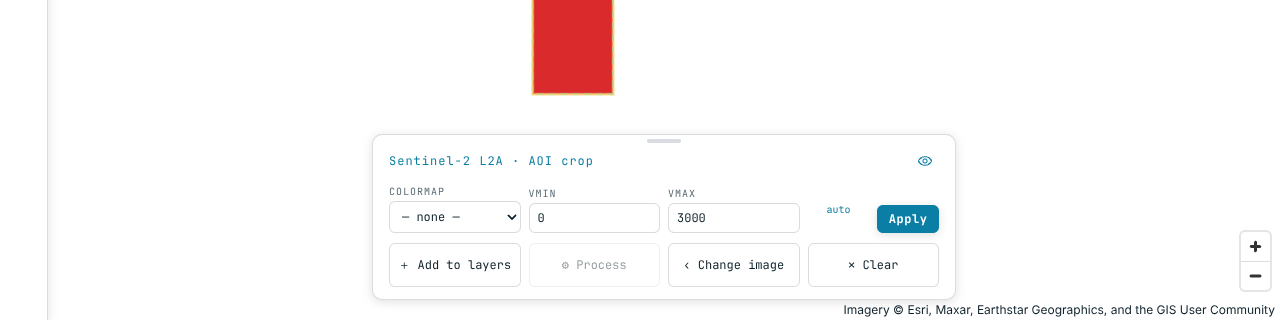
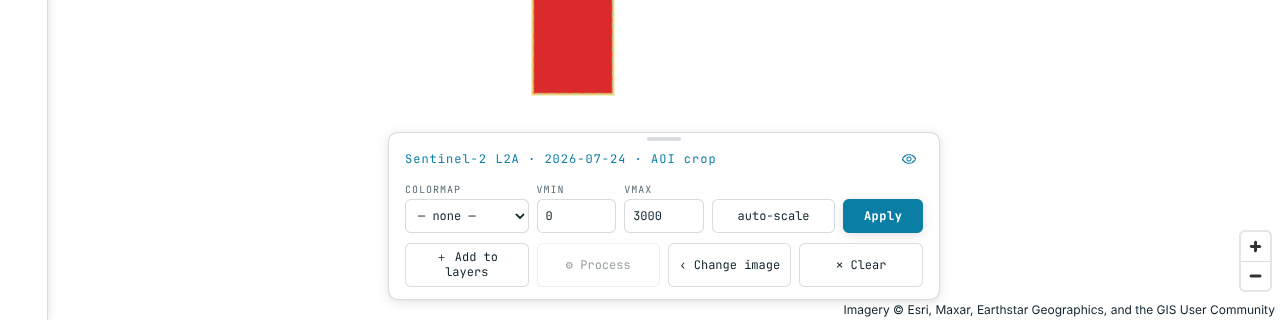
Document the crop, Clear, band and head changes of the #211 review
Plan section 8: the two exceptions to the show/hide rule, the buttons and
tooltips, the head with the date, auto-scale, the click path for the review
(8.6), the cause of the band movement and the open question about the column
of bands (8.9), the decision log line and the updated screenshots.

Claude-Session: https://claude.ai/code/session_01KmZKpxJbA8H3LopFcZLeJn

diff --git a/docs/plans/vp3/ui-02-basemap-projektion.md b/docs/plans/vp3/ui-02-basemap-projektion.md
@@ -321,25 +321,28 @@ Ich konnte nicht belegen, dass Ottos genaue Klickfolge dieselbe war; die fünf P
 
 1. „Hide results“ gilt immer: Auf der Karte erscheinen keine Umrisse, Quicklooks, Zuschnitte oder Hervorhebungen von Suchergebnissen, egal was vorher geschah (Clear, Verlassen der Ansicht, Crop, Layer entfernen, Wechsel von Basemap oder Projektion, „Load more“, neue Suche, Neuladen).
 2. Einzige Ausnahme ist die Auswahl: Eine angehakte Szene erscheint mit ihren Steuerelementen und verschwindet mit dem Haken.
-3. Nur der Umschalter ändert Show/Hide, mit **einer Ausnahme** (Otto, 27.10.2026, nach den Antworten zu 8.7): Ein Klick auf „Search“ (neue Suche, auch nach dem Szenennamen) setzt immer „Show results“. `enterFocus`, `exitFocus`, `clearView`, „Load more“, „Clear search results“, „Clear all“, „Crop to AOI“, Wechsel von Basemap und Projektion und Neuladen ändern es nicht. Die Ausnahme steht an einer Stelle (`store.ts::showResults`, aufgerufen von `runSearch` und `findSceneByName`, nachdem die Suche gültig ist; ohne AOI beginnt keine Suche und der Schalter bleibt).
+3. Nur der Umschalter ändert Show/Hide, mit **zwei Ausnahmen** (Otto, 27.10.2026): Ein Klick auf „Search“ (neue Suche, auch nach dem Szenennamen) setzt immer „Show results“, und „Crop to AOI“ bzw. „Crop & merge to AOI“ setzt „Hide results“. Alle übrigen Vorgänge ändern es nicht: „View whole scene“, „Clear“ und „Change image“ in der Ansicht, „Load more“, „Clear search results“, „Clear all“, Wechsel von Basemap und Projektion, Neuladen. Beide Ausnahmen stehen an einer Stelle im Store: `setResultsOnMap` (aufgerufen von `runSearch` und `findSceneByName`, nachdem die Suche gültig ist; ohne AOI beginnt keine Suche und der Schalter bleibt) und der Zweig „Zuschnitt“ von `enterFocus`.
 4. **Die Funktion:** `resultsOnMapOf(state)` in `frontend/src/mapResults.ts`. Sie liefert aus Schalter, Auswahl und Liste `quicklooks` (Stöbern), `overlay` (über einer Ansicht), `cropsOf` (welche Zuschnitte der Suche), `highlight` (Umrisse der angehakten Szenen) und `clickable` (was ein Klick auf die Karte treffen darf). `MapView.tsx` zeichnet nur noch daraus, auch beim Aufbau nach `style.load`; die Funktionen `visibleGroupIndex` und `resultsOverlayOf` und die drei einzelnen Formeln sind weg.
 
 **Folge von Regel 3 (Frage 1, Antwort Otto):** Öffnet man eine Ansicht bei „Show results“, bleiben die Ergebnisse an; die Ansicht liegt dann **über** ihren Quicklooks, die Umrisse der Ergebnisse bleiben obenauf (8.8).
 
-### 8.3 „✕ Clear“ und „Change image“
+### 8.3 „Crop to AOI“, „✕ Clear“ und „Change image“ (Stand nach dem Review vom 27.10.2026)
 
-- **„✕ Clear“** (Tooltip „Remove this view and deselect“) nimmt die Ansicht (Zuschnitt bzw. ganze Szene) von der Karte und hebt die Auswahl auf (`clearView`). Angeheftete Layer, die Ergebnisliste und „Show/Hide“ bleiben.
-- **„‹ Change image“** (Tooltip „Choose a different image“) verlässt die Ansicht und **behält die Auswahl** (`exitFocus`); die angehakten Szenen bleiben also nach Regel 2 auf der Karte, auch bei „hidden“.
+- **„Crop to AOI“** setzt „Hide results“ und **hebt die Auswahl der zugeschnittenen Szenen auf** (`enterFocus`), damit ihr Quicklook nicht unter oder über dem Zuschnitt liegt. Die Ansicht bleibt offen und hängt danach nicht mehr an der Auswahl (`addCurrentToLayers` ohne Auswahl nimmt alle Szenen der Ansicht). Hakt man die Szene wieder an, erscheint ihr Quicklook wie bei jeder anderen Szene (Regel 2), die Ansicht bleibt unberührt; wird bei offener Ansicht wieder „Show results“ gewählt, liegt die Ansicht über den Quicklooks (Antwort 1 zu 8.7, gilt weiter). „View whole scene“ lässt Auswahl und Schalter, wie sie waren.
+- **„✕ Clear“** (Tooltip „Remove this view from the map“) nimmt die Ansicht von der Karte (`exitFocus`), sonst nichts: Auswahl, angeheftete Layer, Ergebnisliste, offenes Panel und Show/Hide bleiben.
+- **„‹ Change image“** (Tooltip „Remove this view and choose another scene from the results“) nimmt die Ansicht von der Karte und öffnet das Ergebnis-Panel (`changeImage`; nur wenn es Ergebnisse gibt). Show/Hide und Auswahl bleiben.
+- **Anmerkung:** Seit der Aufhebung der Auswahl nach einem Zuschnitt unterscheiden sich die beiden Knöpfe nur noch darin, dass „Change image“ das Ergebnis-Panel öffnet. Ich habe „Change image“ nicht entfernt (Ottos Vorgabe), sage es aber hier: Wer mit dem Panel schon offen ist, sieht keinen Unterschied. Ob einer der beiden entfallen soll, entscheidet Otto.
 
 ### 8.4 Gestaltung der Ansicht
 
-- Kopf in einer Zeile: „Sentinel-2 L2A · AOI crop“ bzw. „· whole scene“; bei mehreren Szenen „· AOI crop · 3 scenes merged“ bzw. „· 3 scenes merged“. Kein „Full-resolution view“, kein „1 image“. Zu langer Text wird mit „…“ gekürzt, der volle Text steht im Tooltip („… · cropped to the AOI · 3 scenes merged“).
+- Kopf in einer Zeile: „Sentinel-2 L2A · 2025-07-29 · AOI crop“ bzw. „· whole scene“; bei mehreren Szenen „· AOI crop · 3 scenes merged“ bzw. „· 3 scenes merged“. Kein „Full-resolution view“, kein „1 image“. Das **Aufnahmedatum** (UTC, `YYYY-MM-DD`, aus `properties.datetime` der Szenen der Ansicht, `viewKind.ts::viewDates`) steht nach dem Datensatz: ein Datum, wenn alle Szenen denselben Tag haben, sonst die Spanne „2025-07-29 – 2025-08-03“. Produkte ohne Zeitpunkt (z. B. das Höhenmodell mit Zeitraum) haben kein Datum im Kopf, kein leeres Trennzeichen. Zu langer Text wird mit „…“ gekürzt, der volle Text steht im Tooltip („… · 2025-07-29 – 2025-08-03 · cropped to the AOI · 3 scenes merged“).
 - „Hide image“ ist ein Augen-Symbol rechts im Kopf; der Tooltip nennt, was ein Klick tut („Hide image“ / „Show image“).
-- Beide Knopfzeilen liegen in einem gemeinsamen Raster aus acht Spalten, dessen Breite die Breite der Ansicht ist (`width: min(…, 100vw – Dock – 24px)`). Zeile 1: Colormap, vmin, vmax je zwei Spalten, „auto“ und „Apply“ je eine. Zeile 2: „＋ Add to layers“, „⚙ Process“, „‹ Change image“, „✕ Clear“, je zwei Spalten. Unter 600 px hat das Raster vier Spalten und die Zeilen brechen um.
+- Beide Knopfzeilen liegen in einem gemeinsamen Raster aus zwölf Spalten, dessen Breite die Breite der Ansicht ist (`width: min(…, 100vw – Dock – 24px)`). Zeile 1: Colormap drei Spalten, vmin und vmax je zwei, „auto-scale“ drei, „Apply“ zwei. Zeile 2: „＋ Add to layers“, „⚙ Process“, „‹ Change image“, „✕ Clear“, je drei Spalten. Unter 600 px hat das Raster vier Spalten und die Zeilen brechen um.
+- **„auto-scale“** (vorher „auto“) und „Apply“ haben dieselbe Zeilenhöhe wie die Felder (`--row-height: 34px`), der Text steht vertikal zentriert, beide stehen auf der Linie der Felder (gemessen im Browser: Oberkante 549, Höhe 34, Mitte des Textes 566 bei beiden Knöpfen und bei den drei Feldern).
 - Der Kopf läuft nie über die Zeilen hinaus (`min-width: 0`, `text-overflow: ellipsis`); Wörter, die nicht passen, brechen (`overflow-wrap: anywhere`). Geprüft: bei 420 px Fensterbreite liegt der Kopf innerhalb der Ansicht, die Ansicht innerhalb des Fensters.
 - Die Klasse `scene-view` trägt die neuen Regeln; `ResultControls` (Ansicht eines Ergebnis-Layers) teilt `viewer-controls` weiter und ist unverändert.
 
-Bilder (Chromium, Software-Rendering, synthetische Szene; vorher = `main`, nachher = dieser Stand):
+Bilder (Chromium, Software-Rendering, synthetische Szene; vorher = `main`, nachher = dieser Stand, mit Datum im Kopf und „auto-scale“; die synthetischen Szenen sind vom 24.07.2026):
 
 | | breit (1280 px) | schmal (420 px) |
 |---|---|---|
@@ -351,23 +354,23 @@ Bilder (Chromium, Software-Rendering, synthetische Szene; vorher = `main`, nachh
 
 ### 8.5 Belege
 
-- **Testmatrix** (`resultsOnMap.test.tsx`, 47 Tests): Ergebnisse an/aus × Szene angehakt ja/nein × zehn Vorgänge („Clear“ der Ansicht, „Change image“, „Crop to AOI“, „View whole scene“, „Clear“ der AOI im Control-Menü, Layer entfernt, Wechsel der Basemap, Wechsel der Projektion, „Load more“, neue Suche). Nach jedem Vorgang steht der Schalter, wie er war, und bei „hidden“ ist nur Angehaktes auf der Karte. Dazu Ottos Klickweg und „Clear“ (Ansicht und Auswahl weg, angeheftete Layer und Ergebnisliste bleiben, Schalter bleibt). Neuladen: Nach einem Neuladen gibt es keine Ergebnisse, also nichts auf der Karte; ob der Schalter dann gemerkt wird, ist Frage 2.
-- **Gegenprobe:** Gegen den Code von vor den Änderungen (nur mit der neuen Funktion und dem Test) scheitern 23 der 47 Tests.
-- **Weitere Tests:** `mapResults.test.ts` (die Funktion, 14), `ViewerControls.test.tsx` (Kopf, Auge, Knöpfe, Vertrag des CSS, 17); die Tests von UI-01g zu „An nach der Suche“ und „an nach Verlassen“ sind auf die neue Regel umgestellt (`ResultsDock.test.tsx`, `store.mosaic.test.ts`).
-- **Echter Browser** (Chromium, Wegwerf-Skript): Klickweg mit angehakter Szene bei „hidden“: nur die angehakte Szene auf der Karte, „Crop to AOI“ lässt den Schalter, „Change image“ ebenso, „Clear“ in der Ansicht nimmt Ansicht und Auswahl weg, der Schalter steht weiter auf „Show results“ und die Liste hat noch ihre Ergebnisse. Bilder oben.
-- **Frontend-Suite mit #212:** In einem Wegwerf-Worktree mit #212 gemergt: 2530 Tests grün. Ohne #212 scheitern die 21 Tests aus `ResultControls.test.tsx` (Uhr in den Fixtures).
+- **Testmatrix** (`resultsOnMap.test.tsx`, 60 Tests): Ergebnisse an/aus × Szene angehakt ja/nein × elf Vorgänge („Clear“ der Ansicht, „Change image“, „Crop to AOI“, „View whole scene“, „Clear“ der AOI im Control-Menü in einer ganzen Szene und in einem Zuschnitt, Layer entfernt, Wechsel der Basemap, Wechsel der Projektion, „Load more“, neue Suche). Nach jedem Vorgang steht der Schalter, wie er war, **außer** bei den beiden Ausnahmen (Zuschnitt → „hidden“ und Auswahl weg; neue Suche → „shown“); bei „hidden“ ist nur Angehaktes auf der Karte. Dazu Ottos Klickweg (Show → Szene anhaken → Crop → Hide, Szene abgehakt, wieder anhaken zeigt ihr Quicklook, „Show results“ legt die Ergebnisse unter die Ansicht), „Clear“ (nur die Ansicht weg) und „Change image“ (Ansicht weg, Panel offen, Schalter und Auswahl bleiben). Neuladen: Nach einem Neuladen gibt es keine Ergebnisse, also nichts auf der Karte; ob der Schalter dann gemerkt wird, ist Frage 2.
+- **Gegenprobe:** Mit dem `store.ts` von vor diesem Review (Zuschnitt lässt Schalter und Auswahl, `clearView`) scheitern 19 Tests in `resultsOnMap.test.tsx` und `store.mosaic.test.ts`. Mit dem alten `Draggable` und `App` scheitert der Test der Bänder; er scheitert dort schon an `data-band`, belegt die Ursache also nicht selbst — die habe ich im Browser gegen den alten Code gemessen (8.9).
+- **Weitere Tests:** `mapResults.test.ts` (die Funktion, 15), `ViewerControls.test.tsx` (Kopf mit Datum, Auge, Knöpfe und Tooltips, „auto-scale“, Vertrag des CSS, 26), `grouping.test.ts` (`itemsOverView`), Bänder und `viewDates`; die Tests von UI-01g zu „An nach der Suche“ und „an nach Verlassen“ sind auf die neue Regel umgestellt (`ResultsDock.test.tsx`, `store.mosaic.test.ts`).
+- **Echter Browser** (Chromium, Wegwerf-Skript): Szene anhaken, „Crop to AOI“: Schalter „Show results“ (also hidden), Auswahl leer, keine Quicklooks auf der Karte, die Ansicht offen, Kopf „Sentinel-2 L2A · 2026-07-25 · AOI crop“. Bänder: siehe 8.9. Bilder oben.
+- **Frontend-Suite** (mit #212 im Zweig): 81 Dateien, 2601 Tests grün; `oxlint`, `tsc -b`, `ruff check backend` und `lint-imports` ohne Befund.
 
 ### 8.6 Prüfanleitung für Otto (Browser, mit deinem Klickweg)
 
-1. Suche mit einer AOI und Treffern; im Panel „Results“ steht „Hide results“. Eine Szene anhaken: Die Auswahlleiste unten erscheint.
-2. „Crop to AOI“ drücken. Der Schalter im Panel „Results“ steht noch so wie vorher (die Ansicht ändert ihn nicht). Bei „Hide results“ siehst du den Zuschnitt und, wenn angehakt, die Szene. Bei „Show results“ liegt der Zuschnitt **über** den Quicklooks der Ergebnisse, deren Umrisse bleiben obenauf.
-3. Der Kopf der Ansicht ist eine Zeile („… · AOI crop“), rechts das Auge. Auf das Auge drücken: Das Bild verschwindet, der Tooltip heißt nun „Show image“. Beide Knopfzeilen sind gleich breit; unten „Add to layers“, „Process“, „Change image“, „Clear“.
-4. Im Control-Menü bei „Area of interest“ das **„✕ Clear“** der AOI drücken (das ist die Stelle aus deinem Bericht), dann eine andere AOI zeichnen: Die Ansicht bleibt wie sie war, geschnitten auf die AOI, mit der sie geöffnet wurde. Die ganze Szene gibt es mit „View whole scene“ in der Auswahlleiste.
-5. In der Ansicht **„✕ Clear“** drücken: Die Ansicht ist weg, die Auswahl ist aufgehoben, die Karte zeigt (bei „hidden“) nichts von den Ergebnissen. Angeheftete Layer im Layer-Manager und die Liste im Panel „Results“ bleiben, der Schalter steht unverändert.
-6. Wieder anhaken, „Crop to AOI“, **„‹ Change image“**: Die Ansicht ist weg, die Szene bleibt angehakt und auf der Karte; „Hide results“ ist weiter gedrückt.
-7. Dieselben Schritte bei „Show results“ und bei einem Wechsel der Basemap (Menü „Basemap“) und der Projektion zwischendurch: Der Schalter ändert sich nie von selbst. Dann „Hide results“ drücken und im Control-Menü **„Search“** drücken: Die Ergebnisse sind wieder an („Hide results“ steht im Panel). Das ist die einzige Ausnahme.
-8. „Hide results“ drücken und die Seite neu laden (F5). Nach dem Neuladen gibt es keine Ergebnisse, also nichts auf der Karte. Die Stellung ist in den Entwicklerwerkzeugen unter Application, Local Storage, `earthx.results` zu sehen (`hide`). Im Panel ist sie erst nach einer Suche zu sehen, und die Suche setzt immer „Show results“ (die Ausnahme von Regel 3); gemerkt wird die Stellung also für Neuladen, Basemap-Wechsel und alles andere, was keine Suche ist.
-9. Fenster schmal ziehen (unter 600 px): Die Zeilen brechen um, nichts läuft über den Rand; ein langer Titel endet mit „…“, der Tooltip zeigt den ganzen Text.
+1. Suche mit einer AOI und Treffern; im Panel „Results“ steht „Hide results“ (also an). Eine Szene anhaken: Die Auswahlleiste unten erscheint.
+2. **„Crop to AOI“** drücken. Die Ergebnisse sind jetzt versteckt (der Schalter heißt „Show results“), die Szene ist **abgehakt**, die Auswahlleiste ist weg, auf der Karte liegt nur der Zuschnitt, kein Quicklook darunter oder darüber. Die Ansicht bleibt offen.
+3. Der Kopf der Ansicht ist eine Zeile mit dem Aufnahmedatum („Sentinel-2 L2A · 2025-07-29 · AOI crop“), rechts das Auge. Mehrere Szenen vom selben Tag: ein Datum; verschiedene Tage: „2025-07-29 – 2025-08-03“. Bei schmalem Fenster endet der Kopf mit „…“, der Tooltip zeigt den vollen Text. „auto-scale“ und „Apply“ stehen auf derselben Höhe wie die Felder, der Text in der Mitte.
+4. **Bänder:** Die Ansicht am Griff oben verschieben. Eine Szene wieder anhaken (ihr Quicklook erscheint, die Ansicht bleibt unberührt; die Auswahlleiste kommt zurück) und diese Leiste verschieben. Dann in der Ansicht **„‹ Change image“**: Die Ansicht geht von der Karte, das Ergebnis-Panel öffnet sich, „Show/Hide“ bleibt, wie es war. Die Auswahlleiste behält ihre eigene Verschiebung, die Zeitleiste, die an die Stelle der Ansicht tritt, steht an ihrem eigenen Platz (nicht dort, wo die Ansicht stand). Die Auswahlleiste liegt allerdings tiefer, weil das Band unter ihr niedriger geworden ist (8.9).
+5. Wieder „Crop to AOI“, dann in der Ansicht **„✕ Clear“**: Nur die Ansicht ist weg. Auswahl, angeheftete Layer im Layer-Manager, Liste im Panel „Results“, offenes Panel und der Schalter stehen unverändert.
+6. Im Control-Menü bei „Area of interest“ das **„✕ Clear“** der AOI drücken (die Stelle aus deinem ersten Bericht), dann eine andere AOI zeichnen: Die Ansicht bleibt wie sie war, geschnitten auf die AOI, mit der sie geöffnet wurde. Die ganze Szene gibt es mit „View whole scene“ in der Auswahlleiste; sie lässt Auswahl und Schalter, wie sie waren.
+7. Bei „Show results“ eine Ansicht öffnen (ganze Szene): Die Quicklooks der Ergebnisse bleiben, die Ansicht liegt darüber, die Umrisse obenauf. Dann einen Zuschnitt: die Ergebnisse gehen auf „hidden“. Auf „Show results“ drücken: Die Ergebnisse liegen wieder unter der Ansicht. Basemap und Projektion zwischendurch wechseln: Der Schalter ändert sich nie von selbst. Dann „Hide results“ drücken und im Control-Menü **„Search“** drücken: Die Ergebnisse sind wieder an. Das sind die zwei Ausnahmen (Crop, Search).
+8. „Hide results“ drücken und die Seite neu laden (F5). Nach dem Neuladen gibt es keine Ergebnisse, also nichts auf der Karte. Die Stellung ist in den Entwicklerwerkzeugen unter Application, Local Storage, `earthx.results` zu sehen (`hide`). Im Panel ist sie erst nach einer Suche zu sehen, und die Suche setzt immer „Show results“.
+9. Fenster schmal ziehen (unter 600 px): Die Zeilen brechen um, nichts läuft über den Rand; ein langer Titel endet mit „…“.
 
 ### 8.7 Fragen an Otto (beantwortet am 27.10.2026, Umsetzung in 8.8)
 
@@ -380,7 +383,15 @@ Bilder (Chromium, Software-Rendering, synthetische Szene; vorher = `main`, nachh
 1. **Die Ansicht über den Quicklooks.** Ein versteckter Marker `results-top` liegt direkt über `layers-top` (dem Ende des Stapels der angehefteten Layer), unter allem, was die Ansicht anlegt. Die Quicklooks der Ergebnisse über einer Ansicht (`res-…`) gehen unter diesen Marker (`mapLayers.ts::underTheView`), die Ansicht (unter der AOI-Linie angelegt) liegt also darüber, ganz gleich, welche von beiden zuerst gezeichnet wird und auch nach `style.load`. Die Umrisse der angehakten Szenen (`mosaicsel-line`) liegen über beiden. Die Zuschnitte der Suche und die angehefteten Layer liegen wie bisher darunter.
 2. **Show/Hide im Browser.** `preferences.ts::loadResultsOnMap` und `saveResultsOnMap`, Schlüssel `earthx.results`, Werte `show` und `hide`; alles andere, ein nicht lesbarer Speicher und ein fehlender Wert ergeben „Show“. Lesen und Schreiben mit `try/catch` wie bei den anderen Einstellungen. Der Speicher wird beim Start des Stores gelesen und vom Umschalter und von „Search“ geschrieben.
 3. **„Search“ zeigt die Ergebnisse** (geänderte Regel 3, siehe 8.2).
-4. **Die Ansicht behält ihre AOI.** Der Store hat `viewAoi`: Beim Öffnen einer zugeschnittenen Ansicht die AOI dieses Augenblicks, beim Klick auf einen zugeschnittenen Layer die des Layers, sonst `null`; `exitFocus`, `clearView` und jede andere Ansicht setzen sie zurück. `MapView` schneidet die Kacheln, die Umrisse je Gruppe und die Zuordnung zu einem angehefteten Layer auf `viewAoi`, nicht auf `aoi`. „Add to layers“ heftet den Zuschnitt der AOI der Ansicht an; „⚙ Process“ legt `aoi` auf die AOI der Ansicht, wie es bei einem Layer schon ist (`activateViewContext`), und nimmt „AOI only“. Die AOI im Control-Menü (zeichnen, ändern, löschen, „Last AOI“) berührt die offene Ansicht nicht mehr. Ein Klick auf einen zugeschnittenen Layer setzt weiter auch `aoi` (UI-01g, unverändert); die Ansicht braucht es nicht mehr.
+4. **Die Ansicht behält ihre AOI.** Der Store hat `viewAoi`: Beim Öffnen einer zugeschnittenen Ansicht die AOI dieses Augenblicks, beim Klick auf einen zugeschnittenen Layer die des Layers, sonst `null`; `exitFocus`, `changeImage` und jede andere Ansicht setzen sie zurück. `MapView` schneidet die Kacheln, die Umrisse je Gruppe und die Zuordnung zu einem angehefteten Layer auf `viewAoi`, nicht auf `aoi`. „Add to layers“ heftet den Zuschnitt der AOI der Ansicht an; „⚙ Process“ legt `aoi` auf die AOI der Ansicht, wie es bei einem Layer schon ist (`activateViewContext`), und nimmt „AOI only“. Die AOI im Control-Menü (zeichnen, ändern, löschen, „Last AOI“) berührt die offene Ansicht nicht mehr. Ein Klick auf einen zugeschnittenen Layer setzt weiter auch `aoi` (UI-01g, unverändert); die Ansicht braucht es nicht mehr.
 
 **Belege:** `mapLayers.resultsUnderView.test.ts` (7: Reihenfolge in beiden Zeichen-Reihenfolgen, mehrfach, nach einem neuen Stil; drei davon scheitern ohne den Marker), `store.resultsKept.test.ts` und die neuen Fälle in `preferences.test.ts` (Vorgabe, Rundreise, Fremdwerte, gesperrter Speicher, Neustart des Stores), `resultsOnMap.test.tsx` (die Matrix mit dem Fall „neue Suche“ als Ausnahme, „Search“ in der Oberfläche, Szenenname, Suche ohne AOI, „Load more“ und Clear ändern nichts), `store.viewAoi.test.ts` (16: AOI beim Öffnen, Löschen, Zeichnen, „Last AOI“, Anheften, Layer, „Process“). Im echten Browser: Ebenen-Reihenfolge `layers-top`, `res-…`, `results-top`, `m-…`, `aoi-fill`, `mosaicsel-line`; die Clip-Kennung der Kacheln der Ansicht bleibt nach Löschen und Neuzeichnen der AOI gleich; „Hide results“ steht nach dem Neuladen im Speicher (`hide`).
 
+### 8.9 Review nach dem Browsertest (Otto, 27.10.2026): Zuschnitt, Bänder, Kopf, „auto-scale“
+
+1. **Zuschnitt** hebt die Auswahl auf und setzt „Hide results“ (zweite Ausnahme von Regel 3, siehe 8.2 und 8.3). `itemsOverView` legt bei „hidden“ jetzt alle angehakten Szenen über die Ansicht, auch die, aus denen die Ansicht besteht (vorher: nur die nicht in der Ansicht), damit eine wieder angehakte Szene ihren Quicklook zeigt wie jede andere; die Ansicht liegt darüber (`results-top`).
+2. **„Clear“, „Change image“**: siehe 8.3; `clearView` gibt es nicht mehr, `exitFocus` ist „Clear“, `changeImage` ist „Change image“.
+3. **Bänder.** **Ursache:** Die Verschiebung eines Bandes stand als `useState` in der Komponente `Draggable`. `App` zeichnet die Bänder in drei Zweigen (Ansicht, Ergebnis-Ansicht, Stöbern), jeweils als Fragment ohne `key`; React ordnet die Kinder nach Stelle zu. Beim Wechsel von der Ansicht zum Stöbern („Change image“) wird die `Draggable` an zweiter Stelle weiterverwendet, mit dem Zustand der Ansicht: die Zeitleiste übernahm die Verschiebung der Ansicht. Umgekehrt ging die Verschiebung eines Bandes, das wegfiel (die Auswahlleiste ohne Haken), verloren. **Gemessen im Browser gegen den alten Code:** Ansicht um (120, −82) verschoben, „Change image“: die Zeitleiste steht bei `translate(120px, -82px)`. **Behebung:** Jedes Band hat seine Kennung (`selection`, `timeline`, `view`, `result`) und seine Verschiebung im kleinen Store `bandPositions.ts`; `Draggable` bekommt `id`, alle Bänder in `App` haben `key`. Gemessen im Browser mit dem neuen Code: Auswahlleiste um (−80, −30) und Ansicht um (100, 20) verschoben, „Change image“: die Auswahlleiste behält `translate(-80px, -30px)`, die Zeitleiste hat keine Verschiebung. Test: `resultsOnMap.test.tsx`, „the bands keep their own places“.
+   **Was bleibt (Frage an Otto):** Die Bänder stehen in einer Spalte, die vom unteren Rand nach oben wächst. Die Auswahlleiste sitzt über dem Band darunter; ist die Ansicht (168 px hoch) weg und die Zeitleiste (61 px) da, rutscht die Auswahlleiste um 107 px nach unten, ohne dass ihre Verschiebung sich geändert hat. Das ist die Reihenfolge der Spalte, kein Zustand. Ich habe es nicht verändert, weil jede andere Lösung (feste Plätze für jedes Band) die Bänder übereinanderlegen oder Lücken lassen würde. (1) So lassen (**Empfehlung**); (2) Auswahlleiste und Hauptband bekommen feste, getrennte Plätze (Lücke bei niedrigem Hauptband).
+4. **Kopf mit Datum** und **„auto-scale“**: siehe 8.4.
+5. **Zum Schluss:** `ViewBar` (die Auswahlleiste) bleibt in der Ansicht nur sichtbar, wenn es angehakte Szenen gibt, die nicht zur Ansicht gehören (`tickedBesideView`, unverändert); nach einem Zuschnitt ist sie also weg, bis eine Szene wieder angehakt wird.

diff --git a/docs/ENTSCHEIDUNGSLOG.md b/docs/ENTSCHEIDUNGSLOG.md
@@ -690,4 +690,4 @@ Bei Widerspruch geht `ENTSCHEIDUNGEN_2026-09-18.md` allen anderen Dokumenten vor
 | 2026-10-27 | **CI auf `main` rot: 21 Tests in `ResultControls.test.tsx` (Ursache gefunden, nur Test geändert).** „Show on map“ ist nicht kaputt und UI-01g (#209) ist nicht schuld: Die Fixture `jobEntries.ts` setzt `NOW` fest auf 20.10.2026 12:00 UTC, der Job läuft 7 Tage später ab, also am 27.10.2026 12:00 UTC. `showResultOnMap` prüft den Ablauf gegen die echte Uhr (`isResultExpired(job.expires, Date.now())`) und legt danach bewusst keinen Layer an; die Tests gingen aber von einem lebenden Job aus. Im echten Browser (Playwright, Backend gemockt, synthetische Daten) legt „Show on map“ bei einem Job mit Ablauf in 3 Tagen den Ergebnis-Layer an; ein abgelaufener Job steht nicht unter „Active“ und hat keinen Knopf. Behoben im Test: Die Uhr wird wie in `JobDetails.test.tsx` auf `NOW` gesetzt (`vi.useFakeTimers({ toFake: ['Date'] })`); Produktcode und Entkopplung aus UI-01g unverändert | fest (Stufe A, Fehlerbehebung) | frontend/src/components/ResultControls.test.tsx; frontend/src/fixtures/jobEntries.ts |
 | 2026-10-27 | **Zeitbomben in den Frontend-Tests (Otto, 27.10.2026, zu #212).** Alle Tests, die Jobs der Fixture `jobEntries.ts` (festes `NOW`) oder feste Datumswerte gegen die echte Uhr laufen ließen, setzen die Uhr jetzt fest (`vi.useFakeTimers({ toFake: ['Date'], now: NOW })`): `AppRail`, `ResultsDock`, `DownloadDialog` zusätzlich zu `ResultControls`. Gegenprobe: Die Suite läuft grün bei um −7, +1, +7, +30, +90, +365 und +3650 Tage verschobener Systemzeit. Der Wächtertest `src/testClock.test.ts` schlägt an, wenn eine Testdatei die Fixture einbindet, ohne die Uhr festzusetzen (Ausnahme: `jobView.test.ts`, reine Funktionen mit `NOW` als Argument) | fest (Stufe A) | frontend/src/testClock.test.ts; frontend/src/fixtures/jobEntries.ts |
 | 2026-10-27 | **Antworten Otto zu §8.7 (zu #211).** (1) Die Ansicht der Auswahl (Zuschnitt bzw. ganze Szene) liegt über den Quicklooks der Suchergebnisse; die Umrisse der Ergebnisse bleiben obenauf (Ebenen-Marker `results-top`). (2) Show/Hide der Ergebnisse wird im Browser gemerkt (`localStorage`, Schlüssel `earthx.results`, Werte `show`/`hide`; Standard „Show“ bei fehlendem Wert oder nicht nutzbarem Speicher). (3) Eine zugeschnittene Ansicht behält die AOI, mit der sie geöffnet wurde (`viewAoi`); Löschen oder Ändern der AOI im Control-Menü ändert die offene Ansicht nicht, die ganze Szene gibt es über „View whole scene“ (ersetzt die Auslegung (3) der Zusatz-Zeile vom 27.10.2026: ohne AOI keine ganze Szene mehr). **Änderung an Regel 3:** Ein Klick auf „Search“ (neue Suche, auch nach dem Szenennamen) setzt immer „Show results“ und ist die einzige Ausnahme; „Load more“, „Clear search results“, Clear, „Change image“, Crop, Wechsel von Basemap und Projektion und Neuladen ändern Show/Hide nicht | fest (Otto, 2026-10-27) | plans/vp3/ui-02-basemap-projektion.md §8.2, §8.8; frontend/src/mapLayers.ts, preferences.ts, store.ts, components/MapView.tsx, processingStore.ts |
-
+| 2026-10-27 | **Review Otto nach Browsertest (zu #211): Zuschnitt, „Clear“, „Change image“, Bänder, Kopf.** (1) „Crop to AOI“ bzw. „Crop & merge to AOI“ setzt „Hide results“ und hebt die Auswahl der zugeschnittenen Szenen auf (zweite Ausnahme von Regel 3 neben „Search“ → Show; alle übrigen Vorgänge ändern Show/Hide nicht); die Ansicht bleibt offen und hängt danach nicht mehr an der Auswahl; eine wieder angehakte Szene zeigt ihren Quicklook wie jede andere (Regel 2), die Ansicht bleibt unberührt; bei offener Ansicht und „Show results“ liegt die Ansicht über den Quicklooks (Antwort 1 zu §8.7 gilt weiter). (2) „✕ Clear“ (Tooltip „Remove this view from the map“) nimmt nur die Ansicht von der Karte; „‹ Change image“ (Tooltip „Remove this view and choose another scene from the results“) nimmt die Ansicht von der Karte und öffnet das Ergebnis-Panel; Show/Hide bleibt. Der Unterschied der beiden Knöpfe ist seitdem klein (im PR genannt, nicht entfernt). (3) Verschiebbare Bänder behalten je ihre eigene Position, Aktionen in einem Band bewegen kein anderes; Ursache: Verschiebung als `useState` je `Draggable`-Instanz und Fragmente ohne `key`, die Zeitleiste übernahm bei „Change image“ die Verschiebung der Ansicht; jetzt Store je Band. (4) Der Kopf der Ansicht enthält das Aufnahmedatum (UTC, `YYYY-MM-DD`; mehrere Tage als Spanne „A – B“; ohne Zeitpunkt kein Datum); nie breiter als die Knopfzeilen, sonst „…“ mit vollem Text im Tooltip. (5) „auto“ heißt „auto-scale“ und steht in Zeilenhöhe von „Apply“. Offene Frage an Otto: Die Auswahlleiste rutscht beim Wechsel Ansicht → Zeitleiste um die Höhendifferenz der Bänder nach unten (Reihenfolge der Spalte, keine Verschiebung) | fest (Otto, 2026-10-27); Frage zur Spalte offen | plans/vp3/ui-02-basemap-projektion.md §8.2, §8.3, §8.4, §8.6, §8.9; frontend/src/store.ts (`enterFocus`, `exitFocus`, `changeImage`), bandPositions.ts, components/Draggable.tsx, App.tsx, ViewerControls.tsx, viewKind.ts, index.css |
